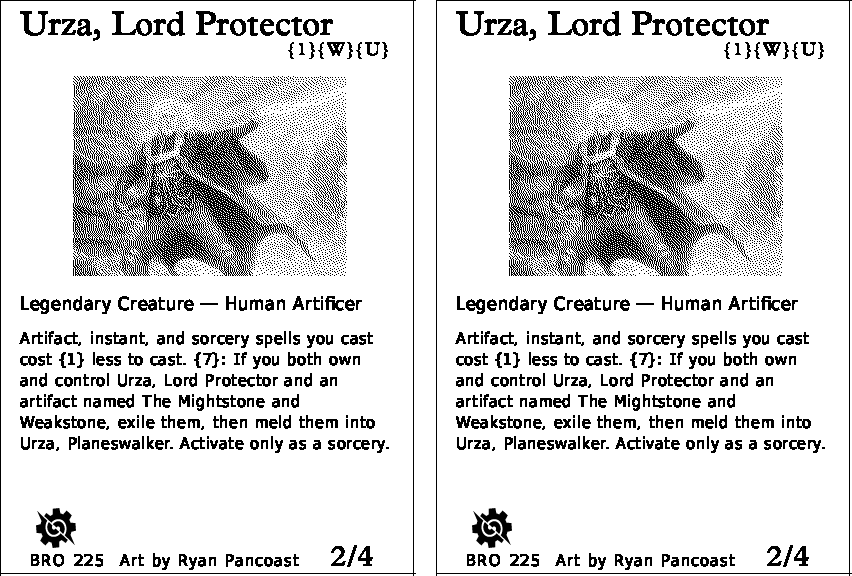
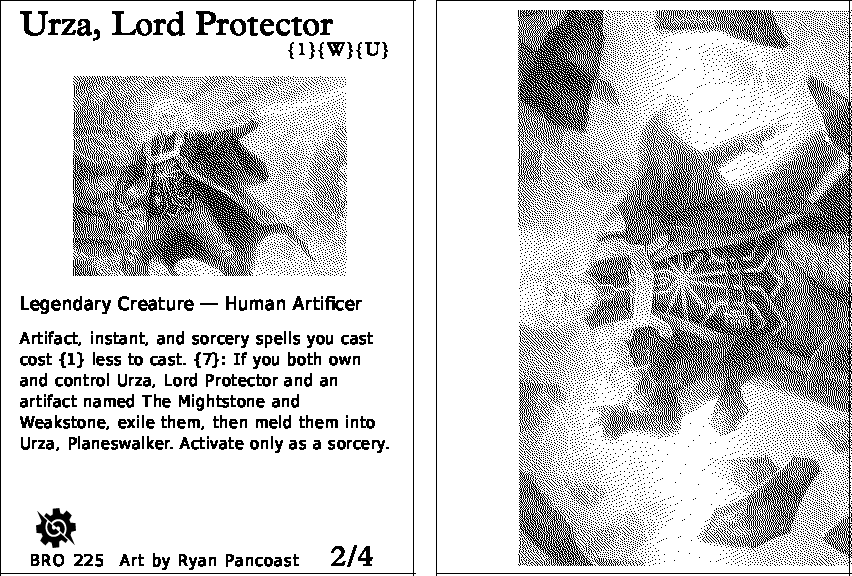
Improve rendering of meld back face

Changed region(s): [[0.5188, 0.0, 1.0, 1.0]]

diff --git a/oracle_escpos/src/card/element_renderers.rs b/oracle_escpos/src/card/element_renderers.rs
@@ -75,6 +75,122 @@ impl ElementRenderer for CardArtRenderer {
     }
 }
 
+/// Renders meld back card art
+pub struct MeldBackCardArtRenderer;
+#[async_trait]
+impl ElementRenderer for MeldBackCardArtRenderer {
+    async fn render(
+        &self,
+        card: &OracleScryfallCard,
+        face: Option<&CardFace>,
+        canvas: &mut RgbImage,
+        layout: &mut Layout,
+    ) -> Result<(), Box<dyn std::error::Error>> {
+        let image_uris = face
+            .and_then(|f| f.image_uris.as_ref())
+            .or_else(|| card.print.image_uris.as_ref());
+
+        debug!(
+            has_face = face.is_some(),
+            has_image_uris = image_uris.is_some(),
+            "CardArtRenderer state"
+        );
+
+        let card_art = if let Some(image_uris) = image_uris {
+            let client = ScryfallClient::new(Some(SCRYFALL_USER_AGENT))?;
+            Some(image_uris.fetch_display(&client).await?.to_vec())
+        } else {
+            None
+        };
+
+        if let Some(card_art) = card_art {
+            let card_art_img = image::load_from_memory(&card_art)?;
+
+            let half_height = card_art_img.height() / 2;
+
+            let card_art_img = card_art_img
+                .crop_imm(0, 0, card_art_img.width(), half_height)
+                .crop_imm(20, 88, card_art_img.width() - 40, half_height - 88)
+                .rotate270();
+
+            let ca_width = card_art_img.width();
+            let ca_height = card_art_img.height();
+
+            card_art_img.save("/tmp/meld_card_back_art.png")?;
+
+            let art = CardArtPipeline::process(
+                card_art_img,
+                layout.meld_card_back_art.max_width,
+                layout.meld_card_back_art.max_height,
+            );
+            let scale = (layout.meld_card_back_art.max_width as f64 / art.width() as f64)
+                .min(layout.meld_card_back_art.max_height as f64 / art.height() as f64)
+                .min(1.0);
+
+            let render_width = (art.width() as f64 * scale) as u32;
+            let render_height = (art.height() as f64 * scale) as u32;
+
+            let art = imageops::resize(
+                &art,
+                render_width,
+                render_height,
+                imageops::FilterType::Lanczos3,
+            );
+            let margin_right = layout.meld_card_back_art.margin_right.unwrap_or(0);
+
+            let margin_right = layout.meld_card_back_art.margin_right.unwrap_or(0);
+
+            let x = canvas.width() as i64 - margin_right - art.width() as i64;
+            let y = (canvas.height() as i64 - art.height() as i64) / 2;
+
+            imageops::overlay(canvas, &art, x, y);
+        }
+
+        Ok(())
+    }
+}
+/*
+pub struct MeldNameRenderer;
+
+#[async_trait]
+impl ElementRenderer for MeldNameRenderer {
+    async fn render(
+        &self,
+        card: &OracleScryfallCard,
+        face: Option<&CardFace>,
+        canvas: &mut RgbImage,
+        layout: &mut Layout,
+    ) -> Result<(), Box<dyn std::error::Error>> {
+        let name = face
+            .map(|f| &f.name)
+            .unwrap_or_else(|| &card.core.name);
+
+        let name_style = &layout.meld_name;
+        let font_data = layout.font_data(name_style.font);
+
+        let name_width = layout.text_width(name, name_style);
+
+        let font_size = match name_style.long_text_font_size {
+            Some(long_size) if name_width > name_style.wrap_width as f32 => long_size,
+            _ => name_style.font_size,
+        };
+
+        draw_text_rotated_270(
+            canvas,
+            name,
+            name_style.x,
+            name_style.y,
+            font_data,
+            font_size,
+            name_style.letter_spacing,
+            name_style.wrap_width,
+        );
+
+        Ok(())
+    }
+}
+ */
+
 /// Renders card name with border wrapping logic
 pub struct NameRenderer;
 

diff --git a/oracle_escpos/src/render.rs b/oracle_escpos/src/render.rs
@@ -616,3 +616,136 @@ pub fn wrapped_line_count(
 
     line_count
 }
+
+/// Renders multiline text onto an image with word wrapping based on width constraints,
+/// with glyphs rotated 270° counter-clockwise.
+pub(crate) fn draw_text_rotated_270(
+    image: &mut RgbImage,
+    text: &str,
+    x: i32,
+    baseline_y: i32,
+    font_data: &[u8],
+    font_size: f32,
+    letter_spacing: f32,
+    max_width: i32,
+) -> i32 {
+    let font = FontRef::from_index(font_data, 0).expect("invalid font");
+
+    let mut shape_context = ShapeContext::new();
+    let mut scale_context = ScaleContext::new();
+
+    let mut scaler = scale_context.builder(font).size(font_size).build();
+
+    let renderer = Render::new(&[Source::Outline]);
+
+    let line_height = font_size as i32 + 5;
+    let mut y = baseline_y;
+    let mut line = String::new();
+    let mut line_count = 0;
+
+    for word in text.split_whitespace() {
+        let candidate = if line.is_empty() {
+            word.to_string()
+        } else {
+            format!("{line} {word}")
+        };
+
+        let mut shaper = shape_context
+            .builder(font)
+            .size(font_size)
+            .script(Script::Latin)
+            .build();
+
+        shaper.add_str(&candidate);
+
+        let mut width = 0.0;
+
+        shaper.shape_with(|cluster| {
+            for glyph in cluster.glyphs {
+                width += glyph.advance + letter_spacing;
+            }
+        });
+
+        if width > max_width as f32 && !line.is_empty() {
+            draw_text_line_rotated_270(
+                image,
+                &line,
+                x,
+                y,
+                font,
+                font_size,
+                letter_spacing,
+                &mut scaler,
+                &renderer,
+            );
+
+            line_count += 1;
+            y += line_height;
+            line = word.to_string();
+        } else {
+            line = candidate;
+        }
+    }
+
+    if !line.is_empty() {
+        draw_text_line_rotated_270(
+            image,
+            &line,
+            x,
+            y,
+            font,
+            font_size,
+            letter_spacing,
+            &mut scaler,
+            &renderer,
+        );
+
+        line_count += 1;
+    }
+
+    if line_count > 0 {
+        y += line_height;
+    }
+
+    y
+}
+
+fn draw_text_line_rotated_270(
+    image: &mut RgbImage,
+    text: &str,
+    x: i32,
+    baseline_y: i32,
+    font: FontRef<'_>,
+    font_size: f32,
+    letter_spacing: f32,
+    scaler: &mut swash::scale::Scaler<'_>,
+    renderer: &Render,
+) {
+    let mut shape_context = ShapeContext::new();
+
+    let mut shaper = shape_context
+        .builder(font)
+        .size(font_size)
+        .script(Script::Latin)
+        .build();
+
+    shaper.add_str(text);
+
+    let mut glyphs = Vec::new();
+
+    shaper.shape_with(|cluster| {
+        for glyph in cluster.glyphs {
+            glyphs.push((glyph.id, glyph.advance));
+        }
+    });
+
+    let mut pen_x = x as f32;
+
+    for (glyph_id, advance) in glyphs {
+        if let Some(glyph_image) = renderer.render(scaler, glyph_id) {
+            render_glyph_rotated_270(image, &glyph_image, pen_x.round() as i32, baseline_y);
+        }
+
+        pen_x += advance + letter_spacing;
+    }
+}

diff --git a/oracle_escpos/src/card/image_gen.rs b/oracle_escpos/src/card/image_gen.rs
@@ -3,8 +3,8 @@ use crate::{
         card_type::{CardRenderer, CardType},
         element_renderers::{
             ArtistRenderer, BorderRenderer, CardArtRenderer, ElementRenderer, ManaCostRenderer,
-            NameRenderer, OracleAdventureTextRenderer, OracleTextRenderer, PowerToughnessRenderer,
-            SetCodeRenderer, SetIconRenderer, TypeLineRenderer,
+            MeldBackCardArtRenderer, NameRenderer, OracleAdventureTextRenderer, OracleTextRenderer,
+            PowerToughnessRenderer, SetCodeRenderer, SetIconRenderer, TypeLineRenderer,
         },
         fonts::fonts,
     },
@@ -131,6 +131,7 @@ async fn render_adventure_card_face(
 /// Handles rendering a single card face
 async fn render_meld_back_face(
     card: &OracleScryfallCard,
+    position: u8,
     layout: &Layout,
 ) -> Result<RgbImage, Box<dyn std::error::Error>> {
     // TODO Render back face of Meld card
@@ -139,8 +140,36 @@ async fn render_meld_back_face(
 
     let scryfall_id = &card.core.id;
     let card_name = &card.core.name;
+    info!(
+        scryfall_id = %scryfall_id,
+        card_name = %card_name,
+        width = layout.width,
+        height = layout.height,
+        layout = %card.core.layout,
+        "Generating meld card back image"
+    );
 
-    Ok(todo!())
+    // Position 1 is the main card art of the oversized Meld Result cards
+    // Position 2 is the main oracle text box of the oversized Meld Result cards
+    // Compose renderers in order
+    let renderers: Vec<Box<dyn ElementRenderer>> = vec![
+        Box::new(MeldBackCardArtRenderer),
+        // Box::new(NameRenderer),
+        Box::new(BorderRenderer),
+    ];
+    // Execute each renderer
+    for renderer in renderers {
+        renderer
+            .render(card, None, &mut card_img, &mut layout)
+            .await?;
+    }
+
+    debug!(
+        scryfall_id = %scryfall_id,
+        "Card image generated successfully"
+    );
+
+    Ok(card_img)
 }
 
 /// Regular card renderer
@@ -245,11 +274,12 @@ impl<'a> CardRenderer for MeldCardRenderer<'a> {
                 result_id = %meld.result_id,
                 position = child.position,
                 result_name = result.core.name,
+                card_name = self.card.core.name,
                 "Card is a meld child"
             );
 
             let front_img = render_card_face(self.card, None, layout).await?;
-            let back_img = render_meld_back_face(&result, layout).await?;
+            let back_img = render_meld_back_face(&result, child.position, layout).await?;
 
             // Composite side-by-side with 20 px white buffer
             let buffer = 20;

diff --git a/oracle_escpos/src/layout.rs b/oracle_escpos/src/layout.rs
@@ -77,6 +77,7 @@ impl Default for FontSizes {
 pub struct ArtLayout {
     pub x: i64,
     pub y: i64,
+    pub margin_right: Option<i64>,
     pub max_width: u32,
     pub max_height: u32,
 }
@@ -243,6 +244,7 @@ pub struct Layout {
     pub sanserif_font: &'static [u8],
     pub serif_font: &'static [u8],
     pub art: ArtLayout,
+    pub meld_card_back_art: ArtLayout,
     pub name: TextStyle,
     pub cost: TextStyle,
     pub set_icon: SvgLayout,
@@ -277,8 +279,17 @@ impl Default for Layout {
             art: ArtLayout {
                 x: 60,
                 y: 76,
+                margin_right: None,
                 max_width: 300,
                 max_height: 200,
+            },
+
+            meld_card_back_art: ArtLayout {
+                margin_right: Some(0),
+                x: 0,
+                y: 0,
+                max_width: 396,
+                max_height: 556,
             },
 
             name: TextStyle {

diff --git a/scryfall_oracle/src/models/cards.rs b/scryfall_oracle/src/models/cards.rs
@@ -128,6 +128,7 @@ pub struct ImageUris {
     pub art_crop: Option<String>,
     pub border_crop: Option<String>,
     pub art: Option<String>,
+    pub display: Option<String>,
 }
 
 impl ImageUris {
@@ -167,6 +168,24 @@ impl ImageUris {
     pub async fn fetch_art(&self, client: &ScryfallClient) -> Result<Vec<u8>, ScryfallApiError> {
         let uri = self
             .art
+            .as_deref()
+            .ok_or(ScryfallApiError::MissingImageUri)?;
+
+        Ok(client
+            .get(uri, None)
+            .await?
+            .error_for_status()?
+            .bytes()
+            .await?
+            .to_vec())
+    }
+
+    pub async fn fetch_display(
+        &self,
+        client: &ScryfallClient,
+    ) -> Result<Vec<u8>, ScryfallApiError> {
+        let uri = self
+            .display
             .as_deref()
             .ok_or(ScryfallApiError::MissingImageUri)?;
 
